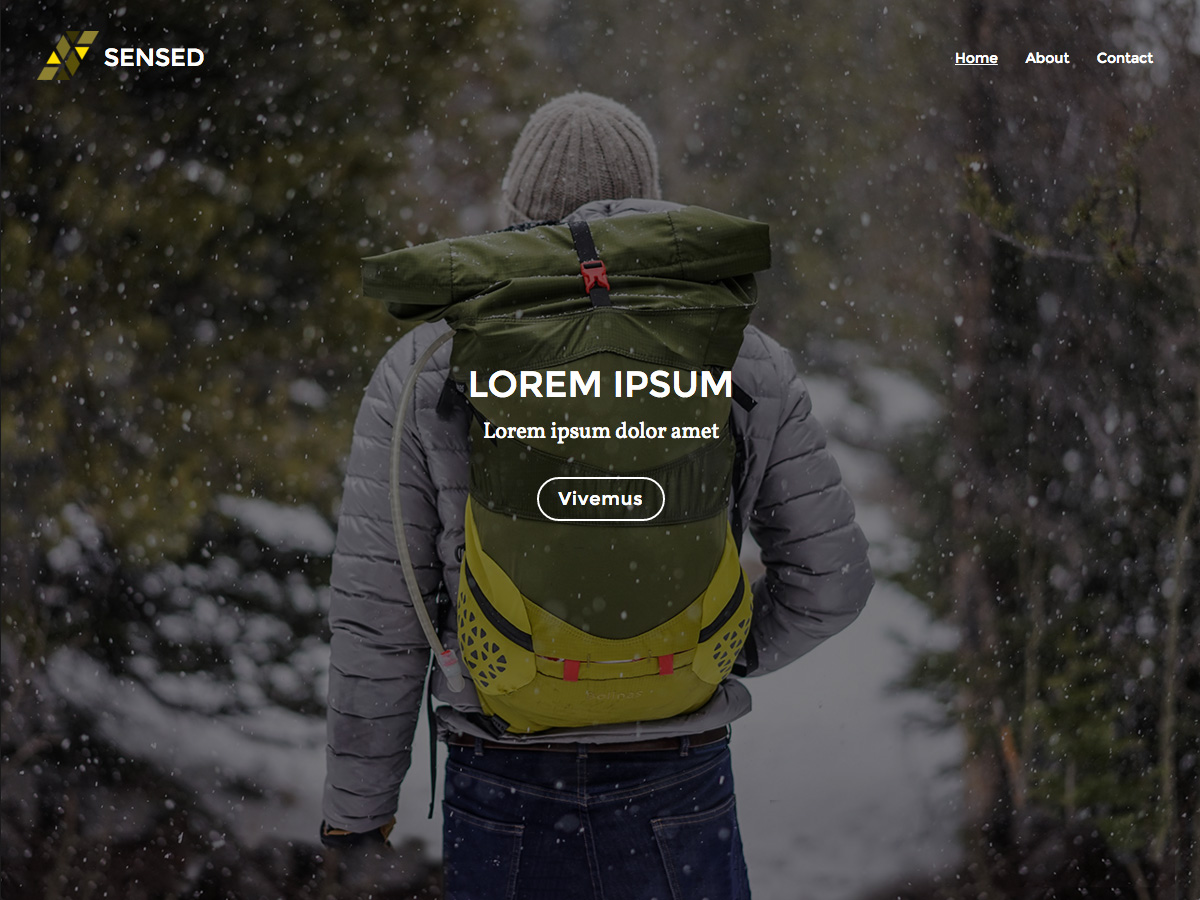
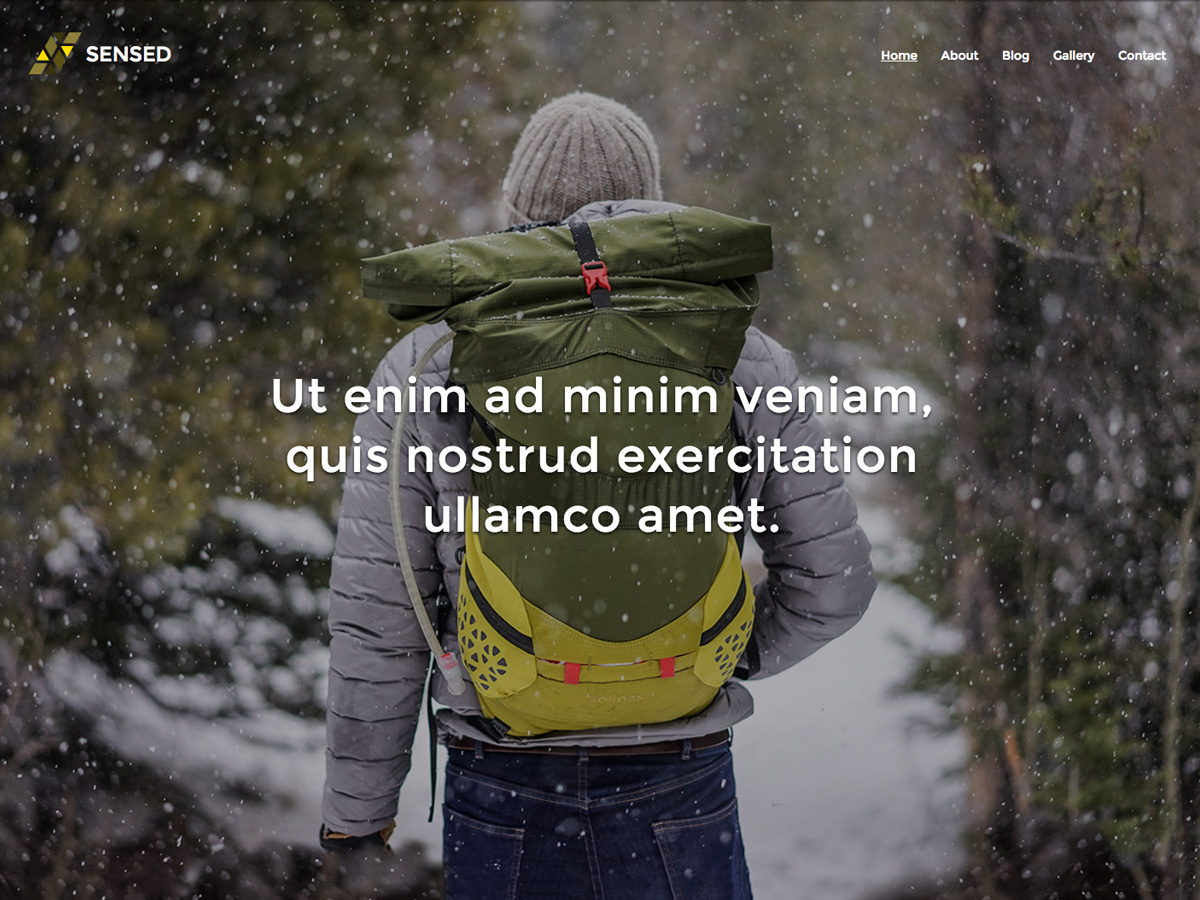
screenshot changed and headline and strapline

diff --git a/stylesheet.less b/stylesheet.less
@@ -574,6 +574,7 @@ hr {
         font-weight: @font__feature-headline--font-weight;
         line-height: @font__feature-headline--line-height;
         letter-spacing: @font__feature-headline--letter-spacing;
+        text-shadow: 0 2px 5px rgba(0,0,0,0.8);
     }
     .strapline {
         font-family: @font__feature-strapline--font-family;
@@ -582,6 +583,7 @@ hr {
         font-weight: @font__feature-strapline--font-weight;
         line-height: @font__feature-strapline--line-height;
         letter-spacing: @font__feature-strapline--letter-spacing;
+        text-shadow: 0 2px 5px rgba(0,0,0,0.8);
     }
     .button {
         width: auto;
